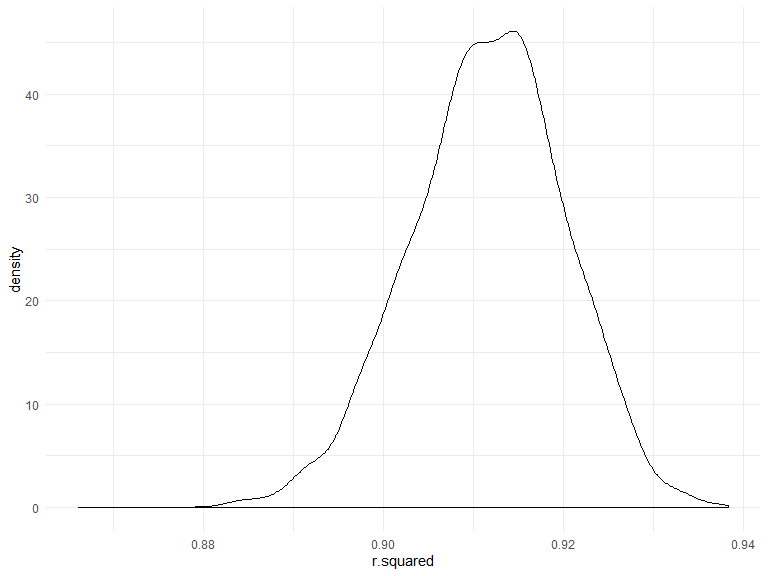
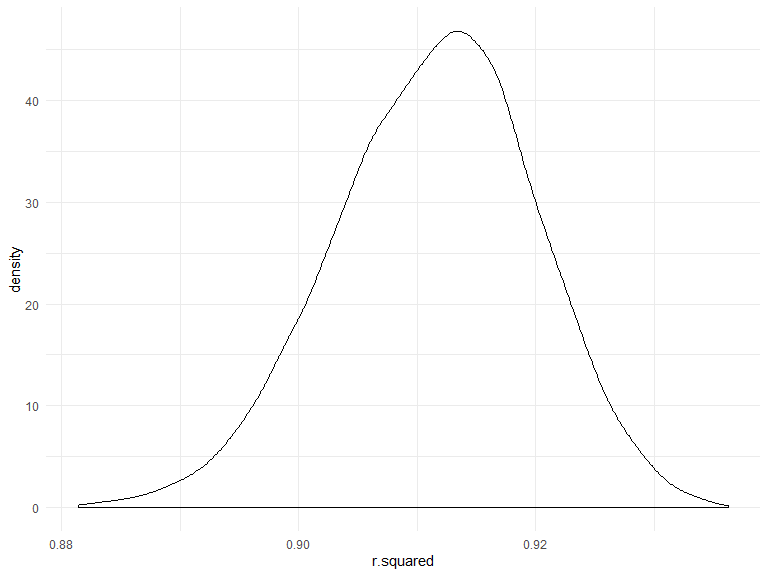
made some changes

diff --git a/p8105_hw6_nk2814.md b/p8105_hw6_nk2814.md
@@ -14,7 +14,7 @@ analysis.
 # I converted bwt to lbs from grams, and also created a binary variable indicating whether the mother smoked at least 1 cigarette per day during pregnancy
 
 birthweight =
-  read.csv("birthweight.csv") %>% 
+  read.csv("./data/birthweight.csv") %>% 
   janitor::clean_names() %>% 
   mutate(
     id = 1:4342,
@@ -49,8 +49,8 @@ fit1
 | (Intercept) | 5.6012212 |       0 |
 | ppwt        | 0.0102426 |       0 |
 
-Linear model ‘fit1’ is highly significant with one predictor. However, I
-have good reason to think that more variables than just pre-pregnancy
+Linear model ‘fit1’ is significant with one predictor. However, I have
+good reason to think that more variables than just pre-pregnancy
 maternal weight (ppwt) affect birthweight.
 
 In addition to biological variables, there are known associations
@@ -192,8 +192,8 @@ fit6
 | wtgain      |   0.0264881 | 0.0000000 |
 
 I could keep testing variables, but at this point, I am satisfied with
-my somewhat parsimonious main effects model. My final regression model
-(**fit6**) is thus as follows:
+my somewhat parsimonious main effects model. My **final regression
+model** (**fit6**) is thus as follows:
 
 **estimated birthweight = 5.25 + 0.01(ppwt) - 0.16(babysex2)
 -0.69(mrace2) - 0.03(mrace3) - 0.32(mrace4) + 0.03(wtgain)**
@@ -329,8 +329,7 @@ boot_sample = function(df) {
 }
 ```
 
-Generate 5000 bootstrap samples and, for each bootstrap sample, produce
-estimates of r^2 and log(B0\*B1) and plot their distributions.
+Generate 5000 bootstrap samples.
 
 ``` r
 boot_straps = 
@@ -360,9 +359,9 @@ bootstrap_results =
     knitr::kable()
 ```
 
-|     mean | st\_error |
-| -------: | --------: |
-| 0.911538 | 0.0086064 |
+|      mean | st\_error |
+| --------: | --------: |
+| 0.9113959 |  0.008484 |
 
 ``` r
   ggplot(bootstrap_results, aes(x=r.squared)) + geom_density()
@@ -401,7 +400,7 @@ bootstrap_results2 =
 
 |     mean | st\_error |
 | -------: | --------: |
-| 2.013128 | 0.0241525 |
+| 2.013331 | 0.0238858 |
 
 ``` r
 ggplot(bootstrap_results2, aes(x=log))+geom_density() + labs(x="Log (Bo*B1)")
@@ -416,6 +415,29 @@ log(β<sup>0∗β</sup>1).
 ``` r
 # R-squared 95% Confidence Interval
 
-
- # log(β^0∗β^1) 95% Confidence Interval
+bootstrap_results %>% 
+  pull(r.squared) %>% 
+  as.vector() %>% 
+  quantile(probs=c(0.025, 0.975))
 ```
+
+    ##     2.5%    97.5% 
+    ## 0.893981 0.927163
+
+The 95% confidence interval for r-squared across the 5,000 bootstrap
+samples is **0.893981, 0.927163**.
+
+``` r
+ # log(β^0∗β^1) 95% Confidence Interval
+
+bootstrap_results2 %>% 
+  pull(log) %>% 
+  as.vector() %>% 
+  quantile(probs=c(0.025, 0.975))
+```
+
+    ##     2.5%    97.5% 
+    ## 1.965080 2.058606
+
+The 95% confidence interval for log(β<sup>0∗β</sup>1) across the 5,000
+bootstrap samples is **1.96508, 2.058606**.
